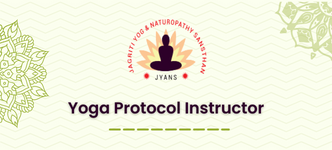
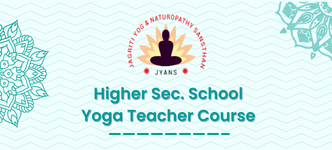
contact us form and course component done

diff --git a/client/src/components/CoursesComponent/CoursesComponnent.jsx b/client/src/components/CoursesComponent/CoursesComponnent.jsx
@@ -10,6 +10,37 @@ import CoursesHeader from "./CoursesHeader/CoursesHeader";
 import CoursesFooter from "./CoursesFooter/CoursesFooter";
 
 const CoursesComponnent = () => {
+
+  const coursesData  = [
+    {
+      title: "Higher Sec. School Yoga Teacher Course",
+      fee: "25000",
+      eligibility: "Graduation",
+      duration: "Six months",
+      age: "18 or above",
+      noOfSeats: "50",
+      image: images.course_one,
+    },
+    {
+      title: "Yoga Protocol Instructor",
+      fee: "7000",
+      eligibility: "10th",
+      duration: "Three months",
+      age: "18 or above",
+      noOfSeats: "20",
+      image: images.course_two,
+    },
+    {
+      title: "Yoga Wellness Instructor",
+      fee: "15000",
+      eligibility: "10 + 2",
+      duration: "Six months",
+      age: "18 or above",
+      noOfSeats: "30",
+      image: images.course_three,
+    },
+  ]
+
   return (
     <>
       <Container
@@ -28,7 +59,7 @@ const CoursesComponnent = () => {
         }}
       >
         <CoursesHeader />
-        <Box  sx={{width:'100%', mt:4, mb:2}}>
+        <Box  sx={{width:'100%', mt:4, mb:2, p:2}}>
           <Box sx={{maxWidth:'1175px',m:'auto', width:'100%', display:'flex', flexDirection:'row', justifyContent:'space-between', alignItems:'center'}}>
           <Typography variant="h4" sx={{ fontWeight:theme.typography.fontWeightBold,color:theme.palette.primary.main  }}>
             Our Yoga Courses
@@ -39,42 +70,36 @@ const CoursesComponnent = () => {
           </Box>
         <Box  sx={{display:{xs:'none', md:'flex'}, flexDirection:'row', p:5, justifyContent:'center',}}>
           <Box sx={{display:'flex', flexDirection:{xs:'column', md:'row'}}}>
-          <Link to="/course" style={{textDecoration:'none', marginRight:'40px'}}>
-          <CoursesCard name="Course Name" desc="Course Details" price="9.99" enrolled="4242" favourites="5050"/>
-          </Link>
-          <Link to="/course" style={{textDecoration:'none', marginRight:'40px'}}>
-          <CoursesCard name="Course Name" desc="Course Details" price="9.99" enrolled="4242" favourites="5050"/>
-          </Link>
-          <Link to="/course" style={{textDecoration:'none', marginRight:'40px'}}>
-          <CoursesCard name="Course Name" desc="Course Details" price="9.99" enrolled="4242" favourites="5050"/>
-          </Link>
+          {
+            coursesData.map((course, index) => {
+              return (
+                <Link to="/course" style={{textDecoration:'none', marginRight:'40px'}} key={index}>
+                  <CoursesCard name={course.title} eligibility={course.eligibility} fee={course.fee} seats={course.noOfSeats} age={course.age} duration={course.duration} image={course.image} />
+                </Link>
+              )
+            }
+            )
+          }
         </Box>
         <Box sx={{display:{xs:'none', lg:'flex'}, flexDirection:{xs:'column', md:'row'}}}>
           {/* <Link to="/course" style={{textDecoration:'none', marginRight:'40px'}}>
           <CoursesCard name="Course Name" desc="Course Details" price="9.99" enrolled="4242" favourites="5050"/>
           </Link> */}
         </Box>
-          {/* <CoursesCard name="Course Name" desc="Course Details" price="9.99" enrolled="4242" favourites="5050"/> */}
         </Box>
         </Box>
         <Box className="marquee" sx={{display:{xs:'flex', md:'none'}}}>
           <Box className="track" sx={{display:'flex'}}>
-            {/* <CoursesCard name="Course Name" desc="Course Details" price="9.99" enrolled="4242" favourites="5050"/>
-            <CoursesCard name="Course Name" desc="Course Details" price="9.99" enrolled="4242" favourites="5050"/>
-            <CoursesCard name="Course Name" desc="Course Details" price="9.99" enrolled="4242" favourites="5050"/>
-            <CoursesCard name="Course Name" desc="Course Details" price="9.99" enrolled="4242" favourites="5050"/> */}
-          <Link to="/course" style={{textDecoration:'none', marginRight:'40px'}}>
-          <CoursesCard name="Course Name" desc="Course Details" price="9.99" enrolled="4242" favourites="5050"/>
-          </Link>
-          <Link to="/course" style={{textDecoration:'none', marginRight:'40px'}}>
-          <CoursesCard name="Course Name" desc="Course Details" price="9.99" enrolled="4242" favourites="5050"/>
-          </Link>
-          <Link to="/course" style={{textDecoration:'none', marginRight:'40px'}}>
-          <CoursesCard name="Course Name" desc="Course Details" price="9.99" enrolled="4242" favourites="5050"/>
-          </Link>
-          <Link to="/course" style={{textDecoration:'none', marginRight:'40px'}}>
-          <CoursesCard name="Course Name" desc="Course Details" price="9.99" enrolled="4242" favourites="5050"/>
-          </Link>
+          {
+            coursesData.map((course, index) => {
+              return (
+                <Link to="/course" style={{textDecoration:'none', marginRight:'40px'}} key={index}>
+                  <CoursesCard name={course.title} eligibility={course.eligibility} fee={course.fee} seats={course.noOfSeats} age={course.age} duration={course.duration} image={course.image} />
+                </Link>
+              )
+            }
+            )
+          }
           </Box>
         </Box>
         <CoursesFooter />

diff --git a/client/src/components/utils/CoursesCard/CoursesCard.jsx b/client/src/components/utils/CoursesCard/CoursesCard.jsx
@@ -3,19 +3,19 @@ import { Box, Button, Container, Typography, IconButton, Card } from "@mui/mater
 import React from "react";
 import {theme} from '../../../theme'
 import ShoppingCartOutlinedIcon from '@mui/icons-material/ShoppingCartOutlined';
+import AccessTimeIcon from '@mui/icons-material/AccessTime';
 import PeopleOutlineIcon from '@mui/icons-material/PeopleOutline';
-import StarOutlineIcon from '@mui/icons-material/StarOutline';
 
 const ProgramCard = (props) => {
 
-  const {name, image, desc, price, enrolled, favourites} = props;
+  const {name, image, eligibility, age , fee, seats, duration, } = props;
 
   return (
     <>
       <Card
         sx={{
-          mb:{xs:4, md:0},
-          minWidth: {xl:'300px'},
+          mb:{xs:0, md:0},
+          minWidth: {xs:'300px',md:'230px', xl:'300px'},
           maxWidth:'400px',
           backgroundColor:theme.palette.background.default,
           width: "100%",
@@ -37,7 +37,7 @@ const ProgramCard = (props) => {
             justifyContent: "center",
           }}
         >
-          <img src={images.course_one} alt="software" heigh style={{height:'auto', width:'100%', maxHeight:'150px', minWidth:{xs:'220px',lg:'200px',xl:'320px'}}} />
+          <img src={image} alt="software" heigh style={{height:'auto', width:'100%', maxHeight:'150px', minWidth:{xs:'220px',lg:'200px',xl:'320px'}}} />
         </Box>
         <Box
           sx={{
@@ -57,7 +57,7 @@ const ProgramCard = (props) => {
             {name}
           </Typography>
           <Typography sx={{ fontSize: "11px", color: "#5a6273", }}>
-            {desc}
+            
           </Typography>
         </Box>
         <Box
@@ -71,30 +71,46 @@ const ProgramCard = (props) => {
             justifyContent: "space-between",
           }}
         >
-          <Typography variant="h6" sx={{color:theme.palette.primary.main, fontWeight:theme.typography.fontWeightBold }}>
-            INR {price}
+          <Typography variant="h6" sx={{color:theme.palette.text.main, fontWeight:theme.typography.fontWeightMedium }}>
+            ₹ {fee}
           </Typography>
-          <Box sx={{display:'flex', flexDirection:'row', alignItems:'flex-end', justifyContent:'space-between'}}>
-            <Box sx={{display:'flex', flexDirection:'row', alignItems:'center',}}>
-              <PeopleOutlineIcon fontSize="small" color="primary" />
+          <Box sx={{display:'flex', flexDirection:'column'}}>
+            <Box sx={{display:'flex', flexDirection:'row', justifyContent:'flex-start'}}>
+              <Box sx={{width:'100%'}}>
+              <Typography variant="h6" sx={{color:theme.palette.text.main }}>
+              Eligibility: {eligibility}
+            </Typography>
+              </Box>
+              <Box sx={{width:'100%'}}>
+              <Typography variant="h6" sx={{color:theme.palette.text.main }}>
+              Age: {age}
+            </Typography>
+              </Box>
+            </Box>
+            <Box sx={{display:'flex', flexDirection:'row', justifyContent:'flex-start'}}>
+            <Box sx={{display:'flex', flexDirection:'row', alignItems:'center',width:'100%'}}>
+              <AccessTimeIcon fontSize="small" color="text" />
               <Typography variant="h6" sx={{ml:1}}>
-                {enrolled}
+                {duration}
               </Typography>
+              </Box>
+            <Box sx={{display:'flex', flexDirection:'row', alignItems:'center',width:'100%'}}>
+              <PeopleOutlineIcon fontSize="small" color="text" />
+              <Typography variant="h6" sx={{ml:1}}>
+                {seats}
+              </Typography>
+              </Box>
             </Box>
-            <Box sx={{display:'flex', flexDirection:'row', alignItems:'center'}}>
-              {/* <StarOutlineIcon fontSize="small" color="primary" /> */}
-              {/* <Typography variant="h6" sx={{}}>
-                {favourites}
-              </Typography> */}
-            </Box>
-          <Button
-            variant="contained"
-            sx={{mt:1, backgroundColor:theme.palette.primary.main, color: "#fff", maxWidth:'120px', width:'100%' }}
-          >
-            <Typography variant="h6" sx={{ }}>Enroll Now</Typography>
-          </Button>
-          </Box>    
-        </Box>
+            
+            <Box sx={{display:'flex', flexDirection:'row', justifyContent:'flex-start', width:'100%'}}>
+<Box sx={{width:'100%', mt:1}}>
+              <Button variant="contained" color="primary" sx={{width:'100%'}}>
+                Enroll Now
+              </Button>
+              </Box>
+            </Box>  
+          </Box>
+          </Box>
       </Card>
     </>
   );

diff --git a/client/src/components/CoursesComponent/CoursesFooter/CoursesFooter.jsx b/client/src/components/CoursesComponent/CoursesFooter/CoursesFooter.jsx
@@ -12,10 +12,10 @@ const CoursesFooter = () => {
         <img src={images.certificate} alt="" style={{height:'auto', width:'100%', maxHeight:'390px'}} />
       </Box>
       <Box x={{width:'100%', ml:{xs:0, md:4},}}>
-        <Typography variant="h6" sx={{color: 'primary.main', fontWeight:theme.typography.fontWeightBold, textAlign:{xs:'center', md:'initial'}, mt:2 }}>
+        <Typography variant="h3" sx={{color: 'primary.main', fontWeight:theme.typography.fontWeightBold, textAlign:{xs:'center', md:'initial'}, mt:2 }}>
         GET PROOF FOR YOUR NEWLY LEARNT SKILLS
         </Typography>
-        <Typography variant="h3" sx={{color: 'text.primary', mt:2,textAlign:{xs:'center', md:'initial'} }}>
+        <Typography variant="h5" sx={{color: 'text.primary', mt:2,textAlign:{xs:'center', md:'initial'} }}>
         Get Job ready with Government Certified Yoga Certificates
         </Typography>
         <Box sx={{mt:4, width:'100%', display:{xs:'none', sm:'flex'}, justifyContent:{xs:'center', md:'flex-start'}, flexDirection:{xs:'column', sm:'row'}, alignItems:'flex-end'}}>
@@ -25,12 +25,12 @@ const CoursesFooter = () => {
           <img src={images.ncvt} alt="" style={{height:'80px', width:'80px', marginRight:25}}/>
           <img src={images.spai_logo} alt="" style={{height:'80px', width:'80px',  marginRight:25}}/>
         </Box>
-        <Box sx={{mt:4, width:'100%', display:{xs:'flex', sm:'none'}, justifyContent:{xs:'center', md:'flex-start'}, flexDirection:{xs:'column', sm:'row'}, alignItems:'center'}}>
-          <img src={images.ycb_logo} alt="" style={{height:'auto', width:'80px', maxHeight:'80px', marginTop:20}}/>
-          <img src={images.msme} alt="" style={{height:'auto', width:'80px', maxHeight:'80px', marginTop:20}}/>
-          <img src={images.fit_india_logo} alt="" style={{height:'auto', width:'80px', maxHeight:'80px', marginTop:20}}/>
-          <img src={images.ncvt} alt="" style={{height:'auto', width:'80px', maxHeight:'80px', marginTop:20}}/>
-          <img src={images.spai_logo} alt="" style={{height:'auto', width:'80px', maxHeight:'80px', marginTop:20}}/>
+        <Box sx={{mt:4, width:'100%', display:{xs:'flex', sm:'none'}, justifyContent:{xs:'center', md:'flex-start'}, flexDirection:{xs:'row', sm:'row'}, alignItems:'center'}}>
+          <img src={images.ycb_logo} alt="" style={{height:'auto', width:'60px', maxHeight:'60px', marginRight:10}}/>
+          <img src={images.msme} alt="" style={{height:'auto', width:'60px', maxHeight:'60px', marginRight:10}}/>
+          <img src={images.fit_india_logo} alt="" style={{height:'auto', width:'60px', maxHeight:'60px', marginRight:10}}/>
+          <img src={images.ncvt} alt="" style={{height:'auto', width:'60px', maxHeight:'60px', marginRight:10}}/>
+          <img src={images.spai_logo} alt="" style={{height:'auto', width:'60px', maxHeight:'60px', marginRight:10}}/>
         </Box>
         <Box sx={{mt:2,width:'100%', display:'flex', justifyContent:{xs:'center', md:'flex-start'}}}>
             <Link to={'/course'} style={{

diff --git a/client/src/components/ContactComponent/ContactComponent.jsx b/client/src/components/ContactComponent/ContactComponent.jsx
@@ -26,7 +26,7 @@ const ContactComponent = () => {
     e.preventDefault();
     try{
       await axios
-        .post('http://localhost:5000/api/contact/enquiry', contactData)
+        .post('http://localhost:8080/api/yoga/addResponse', contactData)
         .then((res) => {
           console.log(res)
           }).catch((err) => {
@@ -57,7 +57,7 @@ const ContactComponent = () => {
           </div>
         </Box>
         <Box sx={{wdith:'100%'}}>
-        <form id="contactForm">
+        <form id="contactForm" onSubmit={handleSubmit}>
                 <div class="row justify-content-center align-items-center">
                   <div class="col-lg-12 col-md-12">
                     <div class="form-group">

diff --git a/client/src/constants/images.js b/client/src/constants/images.js
@@ -37,6 +37,10 @@ import spai_logo from '../assets/images/spai_logo.svg';
 import msme from '../assets/images/msme.png';
 import ncvt from '../assets/images/ncvt.png';
 import course_one from '../assets/images/course_one.png';
+import course_two from '../assets/images/course_two.png';
+import course_three from '../assets/images/course_three.png';
+import course_four from '../assets/images/course_four.png';
+import course_five from '../assets/images/course_five.png';
 
 export default {
     slider_1,
@@ -78,4 +82,8 @@ export default {
     msme,
     ncvt,
     course_one,
+    course_two,
+    course_three,
+    course_four,
+    course_five,
 }

diff --git a/server/models/response.model.js b/server/models/response.model.js
@@ -1,0 +1,26 @@
+module.exports = (sequelize, Sequelize) => {
+    const Response = sequelize.define("response", {
+      id: {
+        type: Sequelize.INTEGER,
+        primaryKey: true,
+        autoIncrement: true,
+      },
+      name: {
+        type: Sequelize.STRING,
+      },
+      email: {
+        type: Sequelize.STRING,
+      },
+      phone: {
+        type: Sequelize.STRING,
+      },
+      subject: {
+        type: Sequelize.STRING,
+      },
+      message: {
+        type: Sequelize.STRING,
+    },
+    });
+    return Response;
+  };
+  

diff --git a/server/routes/routes.js b/server/routes/routes.js
@@ -1,6 +1,11 @@
 module.exports = (app) => {
     const student = require('../controllers/student.controller.js');
+    const response = require('../controllers/response.controller.js');
+
     const router = require('express').Router();
+
     router.post("/addStudent", student.create);
-    app.use("/api/student", router);
+    router.post("/addResponse", response.create);
+
+    app.use("/api/yoga", router);
 }

diff --git a/server/controllers/response.controller.js b/server/controllers/response.controller.js
@@ -1,0 +1,16 @@
+const db = require('../models');
+const Response = db.response;
+
+exports.create = async (req, res) => {
+    console.log(req.body);
+    Response.create(req.body).then(data => {
+        res.send(
+            {
+                message: "Response created successfully",
+            }
+        );
+    }).catch(err => {
+        res.send(err);
+        console.log(err);
+    });
+}

diff --git a/client/src/components/EnrollForm/EnrollForm.jsx b/client/src/components/EnrollForm/EnrollForm.jsx
@@ -931,7 +931,7 @@ const ContactForm = () => {
     try {
       console.log(data);
       await axios
-        .post("http://localhost:8080/api/student/addStudent", data)
+        .post("http://localhost:8080/api/yoga/addStudent", data)
         .then((res) => {
           console.log(res);
         })

diff --git a/client/src/views/Home/Home.jsx b/client/src/views/Home/Home.jsx
@@ -18,7 +18,7 @@ const Home = () => {
       <CoursesComponnent />
       <MidBannerOne />
       <HeaderBanner />
-      <MidBannerTwo />
+      {/* <MidBannerTwo /> */}
       <MidBannerThree />
       <MidBannerFour />
       <MidBannerFive />

diff --git a/server/models/index.js b/server/models/index.js
@@ -18,5 +18,6 @@ db.Sequelize = Sequelize;
 db.sequelize = sequelize;
 
 db.student = require('./student.model.js')(sequelize, Sequelize);
+db.response = require('./response.model.js')(sequelize, Sequelize);
 
 module.exports = db;
